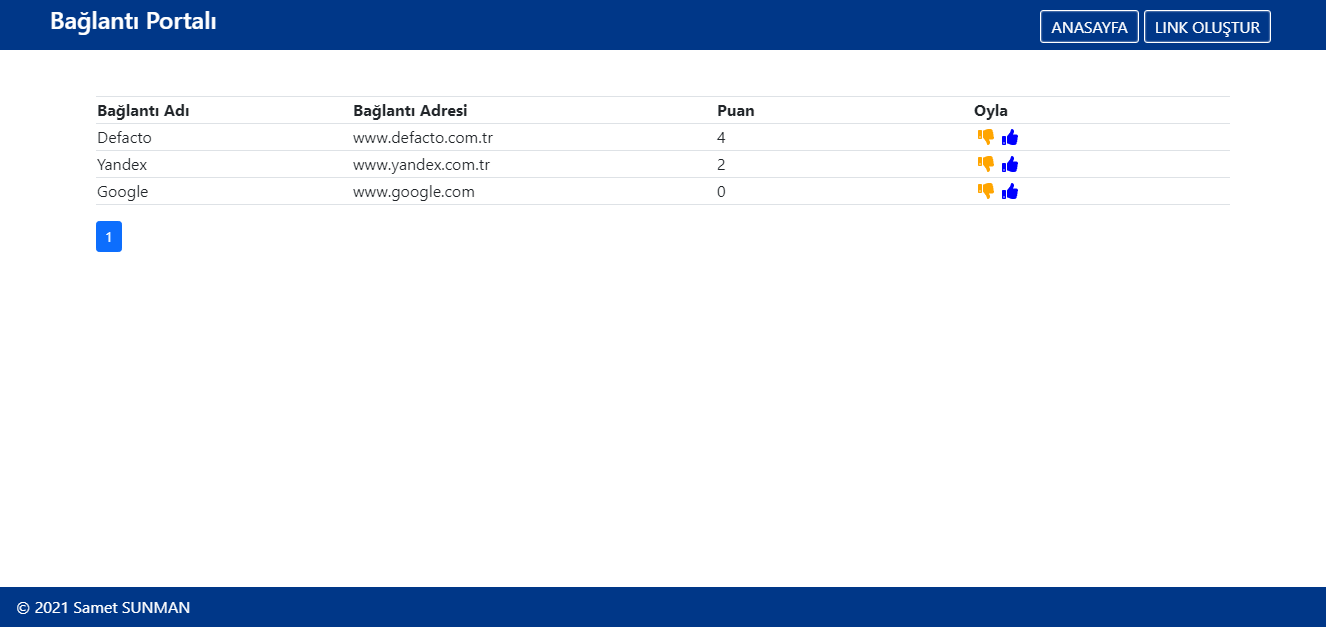
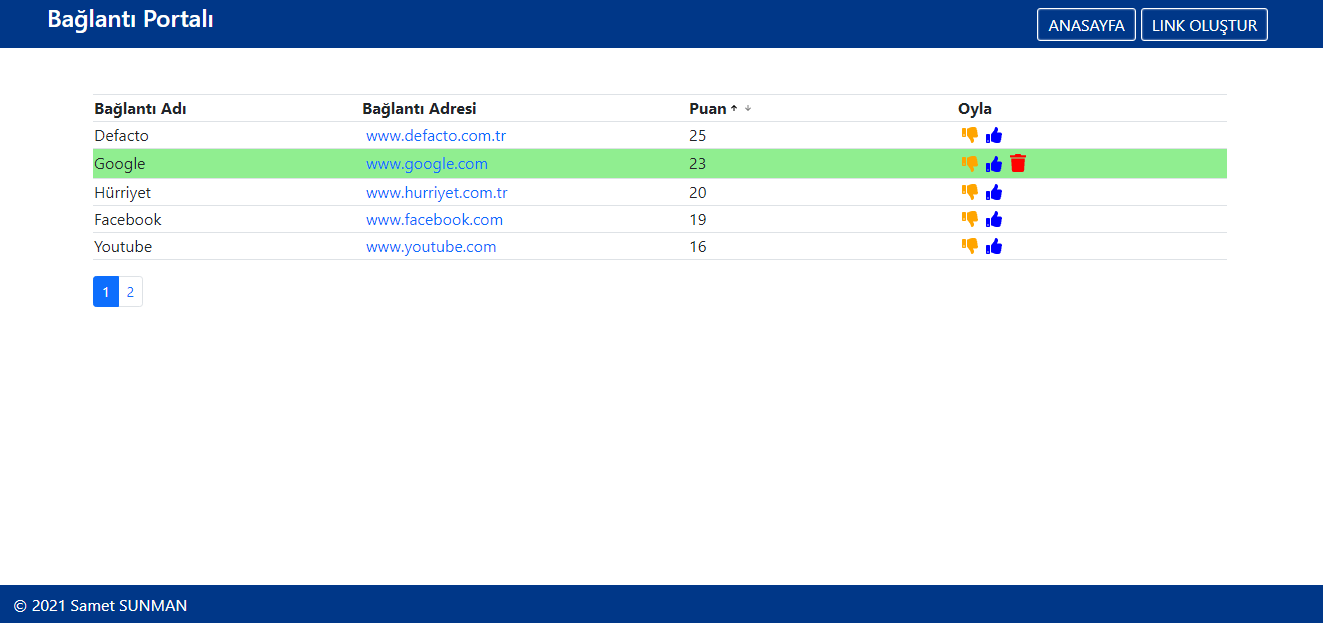
new screenshot

Changed region(s): [[0.062, 0.1525, 0.9297, 0.5185], [0.0, 0.0, 1.0, 0.0915], [0.0, 0.9149, 1.0, 1.0]]

diff --git a/src/context/store.js b/src/context/store.js
@@ -4,22 +4,57 @@ const initialState = {
             id: 1,
             name: 'Defacto',
             link: 'www.defacto.com.tr',
-            vote: 10,
+            vote: 25,
             updatedDate: new Date('2021-08-01 13:03')
         },
         {
             id: 2,
             name: 'Google',
-            link: 'www.google.com.tr',
-            vote: 2,
+            link: 'www.google.com',
+            vote: 23,
             updatedDate: new Date('2021-08-01 13:09')
         },
         {
             id: 3,
             name: 'Facebook',
-            link: 'www.facebook.com.tr',
-            vote: 5,
+            link: 'www.facebook.com',
+            vote: 19,
             updatedDate: new Date('2021-08-01 13:10')
+        },
+        {
+            id: 4,
+            name: 'Yandex',
+            link: 'www.yandex.com',
+            vote: 5,
+            updatedDate: new Date('2021-08-01 13:50')
+        },
+        {
+            id: 5,
+            name: 'Youtube',
+            link: 'www.youtube.com',
+            vote: 16,
+            updatedDate: new Date('2021-08-01 14:35')
+        },
+        {
+            id: 6,
+            name: 'Amazon',
+            link: 'www.amazon.com.tr',
+            vote: 9,
+            updatedDate: new Date('2021-08-01 16:45')
+        },
+        {
+            id: 7,
+            name: 'Gittigidiyor',
+            link: 'www.gittigidiyor.com.tr',
+            vote: 0,
+            updatedDate: new Date('2021-08-01 22:10')
+        },
+        {
+            id: 8,
+            name: 'Hürriyet',
+            link: 'www.hurriyet.com.tr',
+            vote: 20,
+            updatedDate: new Date('2021-08-01 23:25')
         }
     ]
 };
